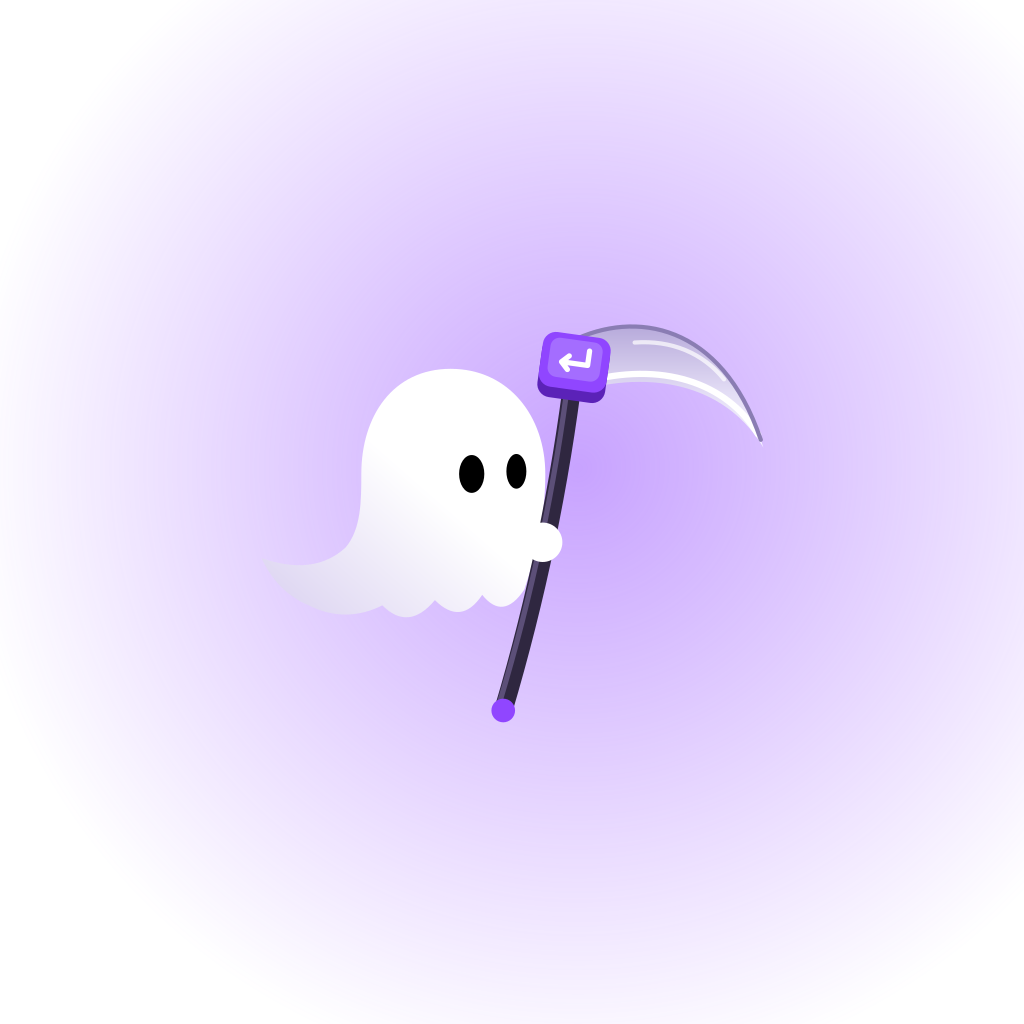
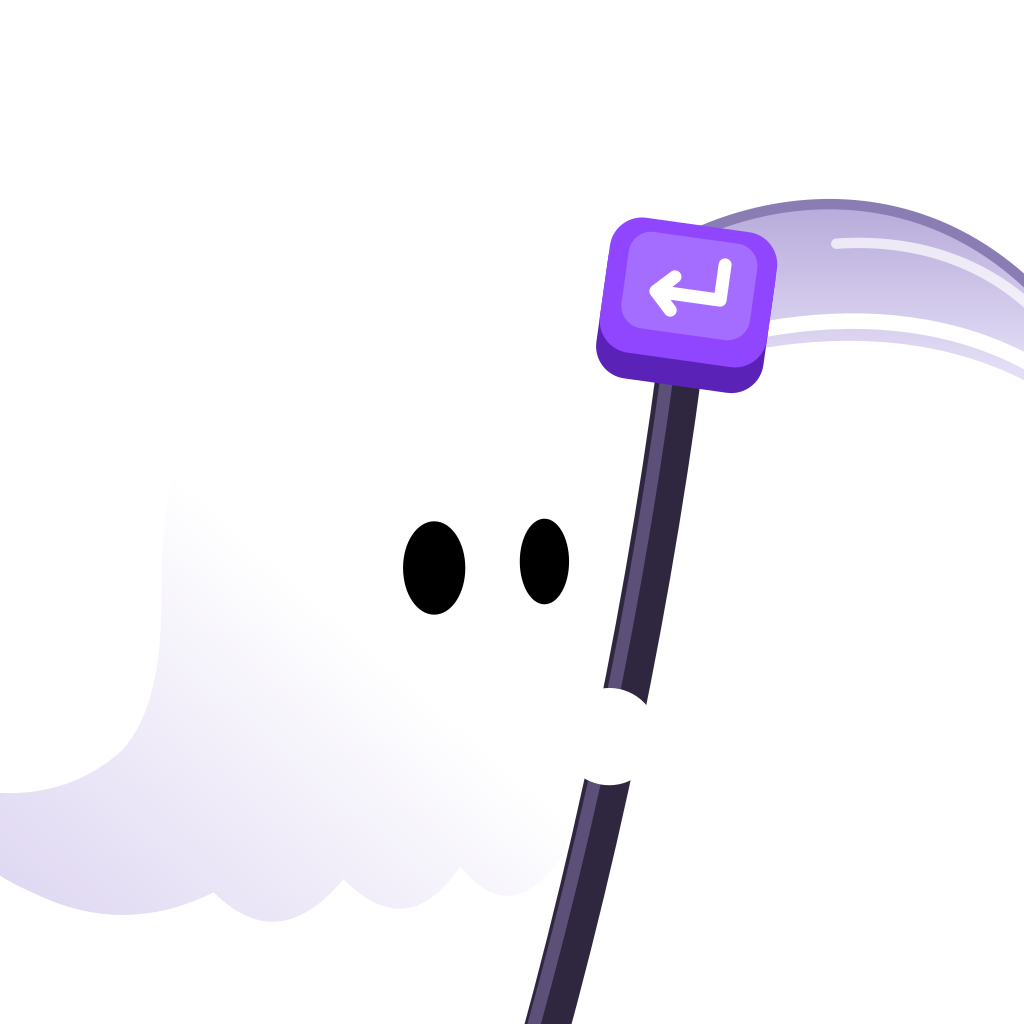
app：アイコンを前の構図に戻し、黒地で鎌を持たせる
左下から頭がのぞく前の構図の方が良いので（sumire が選んだ）、その切り取りのまま、地を黒にして鎌を描いた。鎌の大きさはアプリ内と同じ。スプラッシュと通知アイコンは、小さくても形が分かるよう全身に鎌を持った絵のまま。

diff --git a/docs/DESIGN.md b/docs/DESIGN.md
@@ -141,13 +141,12 @@ All artwork is flat vector, drawn in `mock/art.js` (`killySVG`, `parentSVG`, `zo
 
 ## App icon, splash and notification icon
 
-All of them show the whole Killy with the Enter-key scythe, drawn from `killySVG` as is (not in the mock). The purple ghost head alone, which the mock's push icon uses, is not used: on a purple field it reads as Kiro's own logo, and the scythe with its ⏎ collar is what is Killy's alone. The images are generated from `mock/art.js` by `mobile/assets/icons/build.sh`; do not edit the PNGs by hand.
+All of them draw Killy from `killySVG` as is, with the Enter-key scythe (not in the mock). The ghost alone on a purple field, as the mock's push icon has it, reads as Kiro's own logo; the scythe with its ⏎ collar is Killy's alone, and the backgrounds are black. The images are generated from `mock/art.js` by `mobile/assets/icons/build.sh`; do not edit the PNGs by hand.
 
 | Image | Look |
 |---|---|
-| App icon (iOS) | `bg` (black) with a soft `purple` glow behind Killy; Killy, scythe included, centred and 80% as wide as the icon. iOS rounds the corners itself, so the image is a full square |
-| Android adaptive icon | Background layer plain `bg`. Foreground: the glow over the whole layer and the same Killy, fitted into the 66 dp circle every launcher mask keeps |
-| Android themed icon (monochrome) | The same Killy in one colour with the eyes cut out |
+| App icon (iOS, and Android's adaptive icon) | `bg` (black) background. Killy's head peeks in from the lower left with the scythe's collar and shaft in front, cropped as in the mock's push icon: in a 40 × 40 box, the 200-wide art drawn 76 wide, moved 18 left and 2 down. iOS rounds the corners itself, so the image is a full square. Android's foreground is the same drawing on a transparent layer, with the 40 × 40 box filling the 72 dp the launcher shows of the 108 dp layer; the background layer is plain `bg` |
+| Android themed icon (monochrome) | The same crop, Killy and the scythe in one colour with the eyes cut out |
 | Splash | The whole Killy with the scythe on `bg`, 160 px wide |
 | Android notification icon | The whole Killy with the scythe in white with the eyes cut out, on transparent; Android tints it with `purple` |
 
